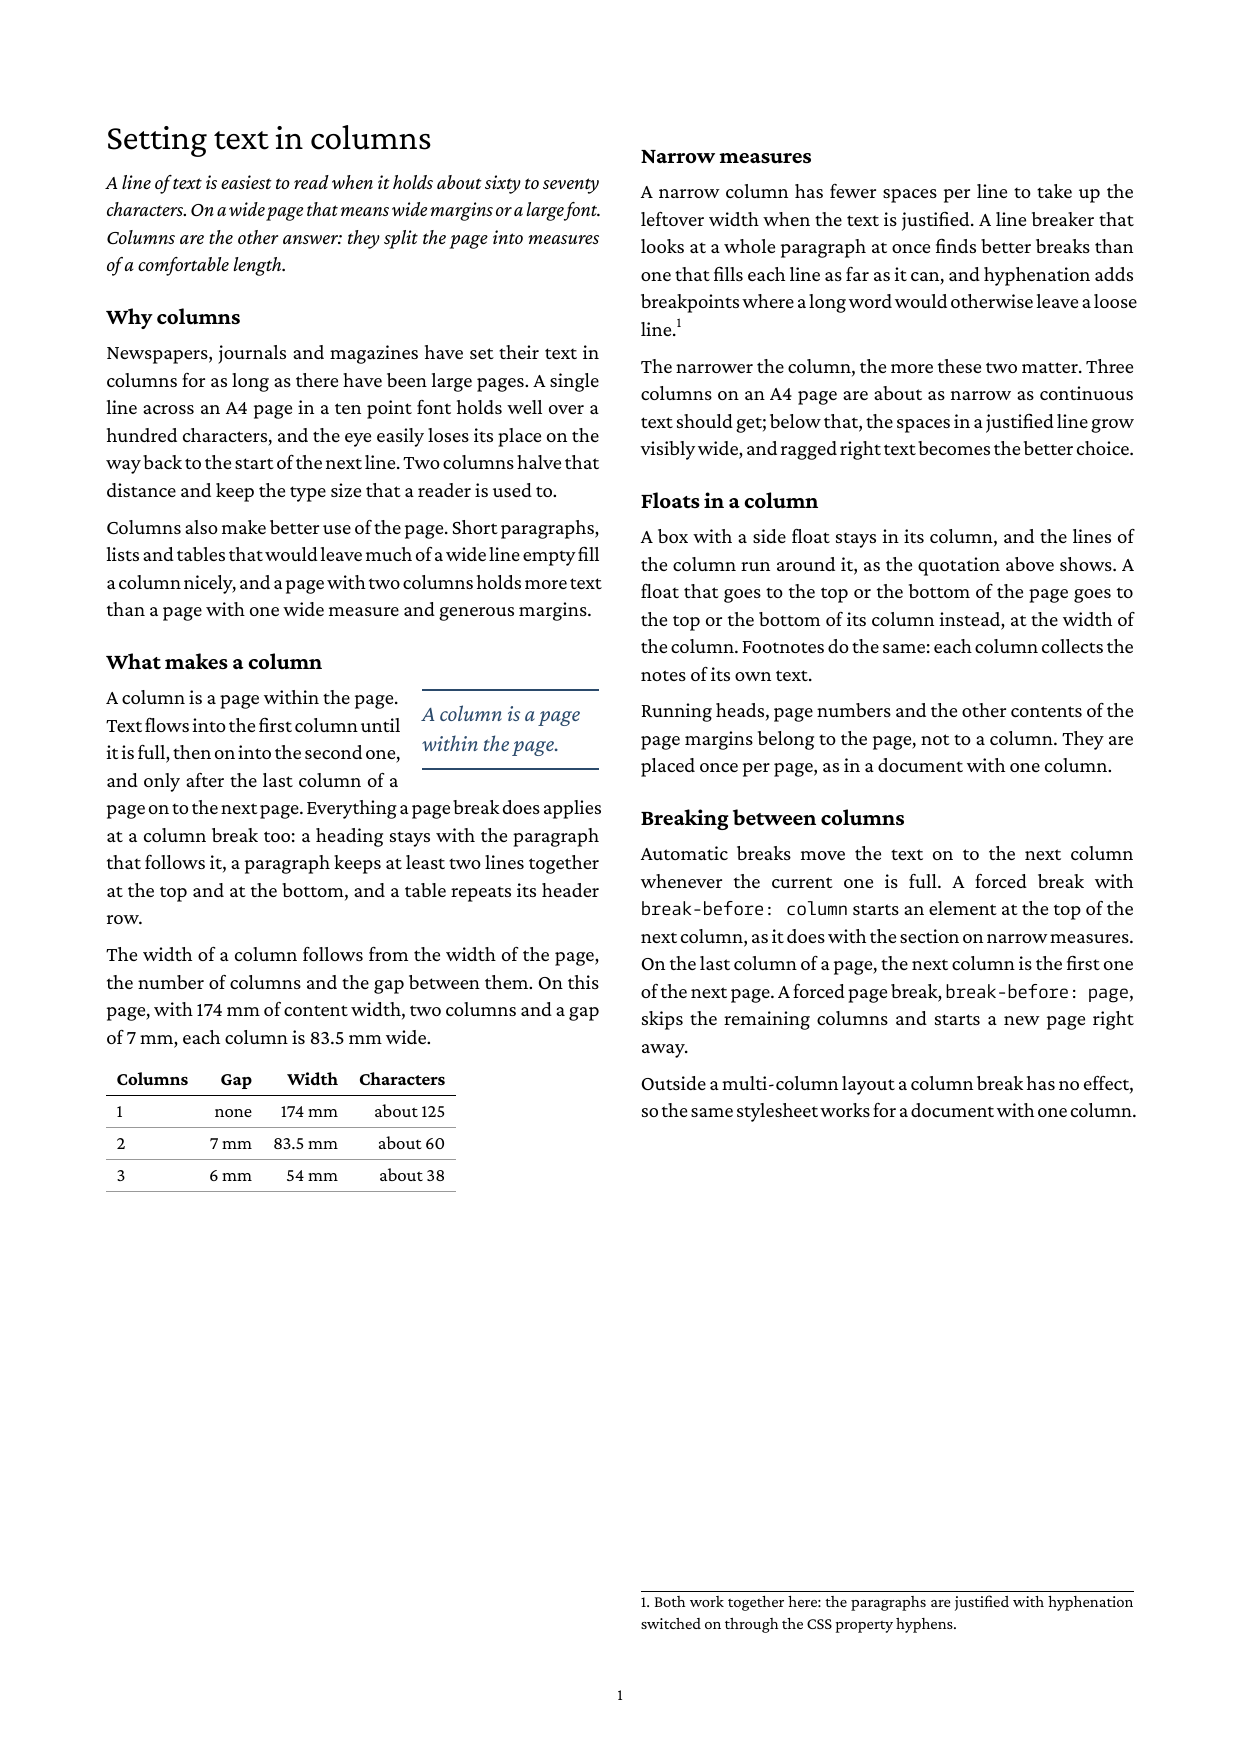
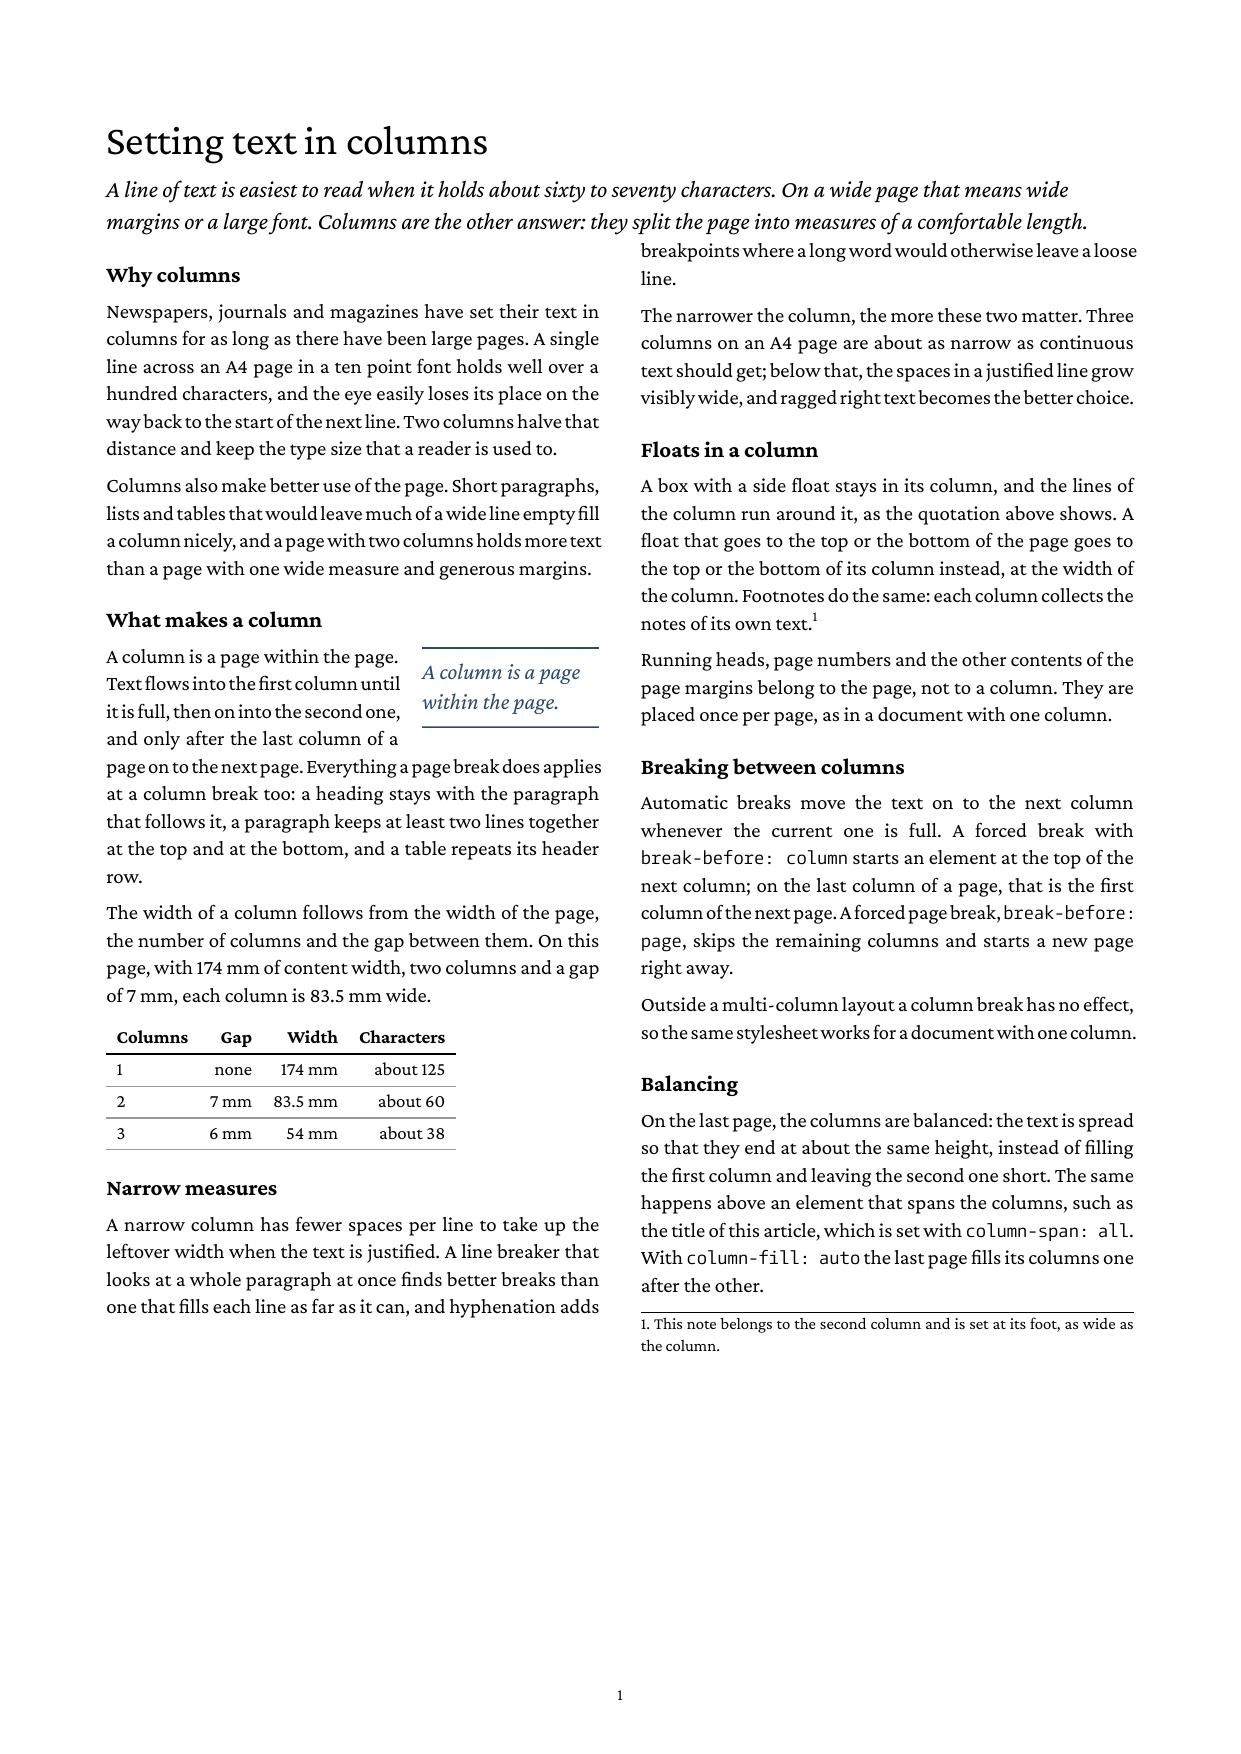
Span the title and balance the columns
The multi-column article sets its title and lead across both columns
and balances the columns of its page. The forced column break goes,
as it would keep the second column from being balanced.

diff --git a/glu/html/multi-column/multi-column.html b/glu/html/multi-column/multi-column.html
@@ -23,10 +23,11 @@ body {
   hyphens: auto;
 }
 
-h1 { font-size: 17pt; font-weight: normal; line-height: 1.15; margin: 0 0 0.5em 0; text-align: left; }
+/* The title and the lead span both columns. */
+h1 { column-span: all; font-size: 20pt; font-weight: normal; line-height: 1.15; margin: 0 0 0.4em 0; text-align: left; }
 h2 { font-size: 11pt; margin: 1.1em 0 0.35em 0; break-after: avoid; }
 p  { margin: 0 0 0.45em 0; }
-p.lead { font-style: italic; }
+p.lead { column-span: all; font-size: 11.5pt; font-style: italic; margin-bottom: 1.2em; text-align: left; }
 
 /* A side float sits in its column and the text of the column runs
    around it. */
@@ -52,8 +53,6 @@ thead th { border-bottom: 0.8pt solid black; }
    wide as the column. */
 .footnote { font-size: 8pt; }
 
-/* The section on narrow measures starts at the top of a column. */
-.newcolumn { break-before: column; }
 </style>
 </head>
 <body>
@@ -106,15 +105,13 @@ wide.</p>
 </tbody>
 </table>
 
-<h2 class="newcolumn">Narrow measures</h2>
+<h2>Narrow measures</h2>
 
 <p>A narrow column has fewer spaces per line to take up the leftover
 width when the text is justified. A line breaker that looks at a whole
 paragraph at once finds better breaks than one that fills each line as
 far as it can, and hyphenation adds breakpoints where a long word would
-otherwise leave a loose line.<span class="footnote">Both work together
-here: the paragraphs are justified with hyphenation switched on through
-the CSS property hyphens.</span></p>
+otherwise leave a loose line.</p>
 
 <p>The narrower the column, the more these two matter. Three columns on
 an A4 page are about as narrow as continuous text should get; below
@@ -127,7 +124,9 @@ right text becomes the better choice.</p>
 column run around it, as the quotation above shows. A float that goes
 to the top or the bottom of the page goes to the top or the bottom of
 its column instead, at the width of the column. Footnotes do the same:
-each column collects the notes of its own text.</p>
+each column collects the notes of its own text.<span class="footnote">This
+note belongs to the second column and is set at its foot, as wide as the
+column.</span></p>
 
 <p>Running heads, page numbers and the other contents of the page
 margins belong to the page, not to a column. They are placed once per
@@ -137,14 +136,22 @@ page, as in a document with one column.</p>
 
 <p>Automatic breaks move the text on to the next column whenever the
 current one is full. A forced break with <code>break-before: column</code>
-starts an element at the top of the next column, as it does with the
-section on narrow measures. On the last column of a page, the next column is the first
-one of the next page. A forced page break, <code>break-before:
+starts an element at the top of the next column; on the last column of a
+page, that is the first column of the next page. A forced page break, <code>break-before:
 page</code>, skips the remaining columns and starts a new page right
 away.</p>
 
 <p>Outside a multi-column layout a column break has no effect, so the
 same stylesheet works for a document with one column.</p>
+
+<h2>Balancing</h2>
+
+<p>On the last page, the columns are balanced: the text is spread so that
+they end at about the same height, instead of filling the first column and
+leaving the second one short. The same happens above an element that
+spans the columns, such as the title of this article, which is set with
+<code>column-span: all</code>. With <code>column-fill: auto</code> the last
+page fills its columns one after the other.</p>
 
 </body>
 </html>

diff --git a/glu/html/multi-column/Readme.md b/glu/html/multi-column/Readme.md
@@ -2,7 +2,8 @@
 
 A one-page article set in two columns with CSS Multi-column Layout:
 `column-count` and `column-gap` on the `body` make every page hold two
-columns, filled one after the other.
+columns, filled one after the other. The title and the lead span both
+columns, and the columns of the last page are balanced.
 
 ![first page of result.pdf](firstpage.png)
 
@@ -11,17 +12,21 @@ columns, filled one after the other.
 | Feature | How |
 | --- | --- |
 | `column-count`, `column-gap` | `body { column-count: 2; column-gap: 7mm; }`: two columns of 83.5 mm on an A4 page with 174 mm of content width. |
-| Column breaks | Text moves on to the second column when the first is full; headings keep with the next paragraph (`break-after: avoid`) across the column break as across a page break. |
-| `break-before: column` | The section on narrow measures starts at the top of the second column. |
+| `column-span: all` | The `h1` and the lead paragraph are as wide as the page; the columns start below them. |
+| Balancing | The text of the last page is spread so that both columns end at about the same height (`column-fill: balance`, the initial value). |
+| Column breaks | Headings keep with the next paragraph (`break-after: avoid`) across the column break as across a page break; a paragraph is split between the columns. |
 | Side float | The pull quote (`float: right`) stays in its column, and the text of the column runs around it. |
 | Footnote | Placed at the foot of the column that holds it, as wide as the column. |
 | Page margin boxes | The page number belongs to the page, not to a column. |
 
 ## Limits
 
-Columns are laid out on the `body` only, and every page has the same
-number of columns. `column-span`, balancing the columns of the last
-page (`column-fill`) and `column-rule` are read but not laid out yet.
+`column-count` is laid out on the `body` and on a direct child of the
+`body` without a border, a background or padding, whose siblings then
+span the columns. `column-rule` is read but not drawn yet. A footnote
+in a paragraph that is split between columns is placed in the column
+where the paragraph starts
+([htmlbag#96](https://github.com/boxesandglue/htmlbag/issues/96)).
 
 ## Run
 

diff --git a/glu/html/Readme.md b/glu/html/Readme.md
@@ -19,7 +19,7 @@ Description | Preview
 [Per-page `@page` background (letterhead)](page-background-letterhead) — two-page PDF letterhead behind the text, full header on page 1 and slim continuation header on pages 2+ via `@page :first` + `background-image` + `-bag-background-page`; pure CSS, no Go/Lua | <a href="page-background-letterhead"><img src="page-background-letterhead/firstpage.png" width="200"></a>
 [Running footer (CSS GCPM running elements)](running-footer): a three-column `<footer>` table repeated in the `@bottom-center` margin box of every page via `position: running(name)` + `content: element(name)`; pure CSS, no Go/Lua | <a href="running-footer"><img src="running-footer/firstpage.png" width="200"></a>
 [Text around images](image-runaround): `float: left` / `float: right` for a figure with caption, an image at the start of a paragraph and a box without a width that shrinks to its content; `-bag-float-gutter` and `clear` | <a href="image-runaround"><img src="image-runaround/firstpage.png" width="200"></a>
-[Multi-column layout](multi-column): an article in two columns from `column-count` and `column-gap` on the body, with a forced `break-before: column`, a side float and a footnote in a column | <a href="multi-column"><img src="multi-column/firstpage.png" width="200"></a>
+[Multi-column layout](multi-column): an article in two columns from `column-count` and `column-gap` on the body, with a title spanning the columns (`column-span: all`), balanced columns on the last page, a side float and a footnote in a column | <a href="multi-column"><img src="multi-column/firstpage.png" width="200"></a>
 
 ## Color emoji and font fallback
 
